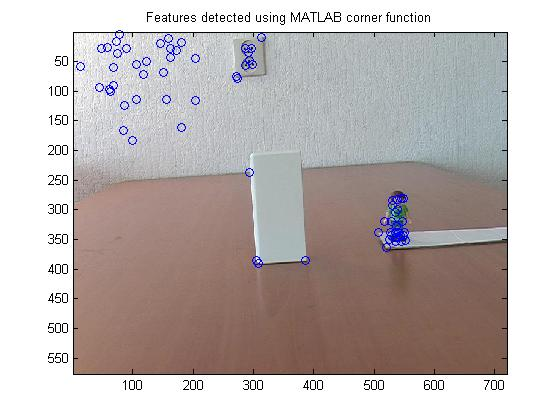
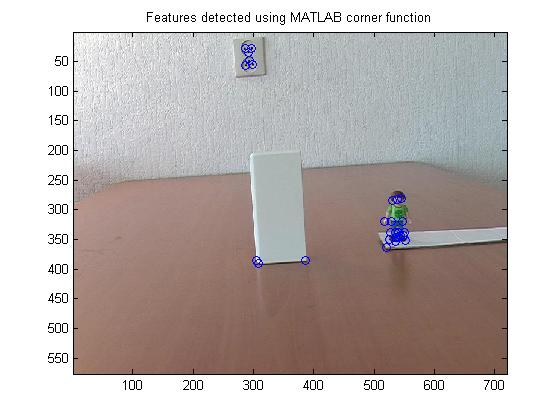
Tuning and report stuff

diff --git a/3-assignment/report.tex b/3-assignment/report.tex
@@ -30,13 +30,13 @@ the image, read in a gray scale format. The image gradients are shown in Figure
 \ref{fig:partialDerivatives_pingpong} and \ref{fig:partialDerivatives_person}.
 
 \begin{figure}[H] \centering
-	\includegraphics[width=1\textwidth]{imgs/derivatives_pingpong.jpg}
+	\includegraphics[width=.8\textwidth]{imgs/derivatives_pingpong.jpg}
 	\caption{Image gradients for first Ping Pong image}
 	\label{fig:partialDerivatives_pingpong}
 \end{figure}
 
 \begin{figure}[H] \centering
-	\includegraphics[width=1\textwidth]{imgs/derivatives_person.jpg}
+	\includegraphics[width=.8\textwidth]{imgs/derivatives_person.jpg}
 	\caption{Image gradients for first Toy Person image}
 	\label{fig:partialDerivatives_person}
 \end{figure}
@@ -49,14 +49,14 @@ assignment instructions. A visualization for the scaled surfaces are shown in
 Figure \ref{fig:surface_pingpong} and \ref{fig:surface_person}.
 
 \begin{figure}[H] \centering
-	\includegraphics[width=1\textwidth]{imgs/surface_pingpong.jpg}
+	\includegraphics[width=.8\textwidth]{imgs/surface_pingpong.jpg}
 	\caption{$H$ surface for first Ping Pong image. Local maxima are
 		observed along the ping pong table, and the hand.}
 	\label{fig:surface_pingpong}
 \end{figure}
 
 \begin{figure}[H] \centering
-	\includegraphics[width=1\textwidth]{imgs/surface_person.jpg}
+	\includegraphics[width=.8\textwidth]{imgs/surface_person.jpg}
 	\caption{$H$ surface for first Toy Person image. Local maxima are
 		observed on the power outlet and on the toy person.}
 	\label{fig:surface_person}
@@ -71,17 +71,17 @@ Finally, to choose the corner points we considered two conditions:
 		value than a given threshold.
 \end{enumerate}
 
-To create an accurate corner detector we need to tune the parameters. We noticed that smaller $\sigma$ had an effect of detecting more corner points on the background. A higher threshold results in more pressure to become a corner point and thus reduces the final number of points. Finally, a larger window size makes the corner points more sparse, and prevents the corner points to be clustered.
-
+To create an accurate corner detector we need to tune the parameters. We know that $\sigma$ controls the smoothness of surface $H$. When $\sigma >> 1$, the main corners are detected but there is misplacement on their location, while $\sigma << 1$ introduces noise by detecting corner points in the background. The window size determines the closeness at which points may be, therefore a larger window prevents them from clustering and reduces the final amount of points. Finally, the threshold regulates the pressure for candidate points to become corner points. Thus, a higher threshold reduces the final number of points.
+ 
 After tuning, the chosen values for the final detector are:
 \begin{itemize}
 	\item $kernel  length = 11$
-	\item $\sigma = 1$
-	\item $window  size = 3$
-	\item $threshold = 7$
+	\item $\sigma = 1.5$
+	\item $window  size = 11$
+	\item $threshold = 10$
 \end{itemize}
 
-To validate our detector we compared it with the Matlab corner function. Quantitatively we get the number of corner points detected, so that our detector ideally has an output in the same order of magnitude as the Matlab detector. Additionally, we compared it qualitatively by visually plotting the corner points and checking both implementations detected about the same points.
+To validate our detector we compared it with the Matlab corner function. In order to have a fair comparison, we make it so that the built in function returns the same number of points as our detector and qualitatively compare them by visually plotting the corner points.
  
 \begin{figure}[H] \centering
 	\begin{subfigure}{.5\textwidth} \centering
@@ -98,6 +98,8 @@ To validate our detector we compared it with the Matlab corner function. Quantit
 	\label{fig:corners_pingpong}
 \end{figure}
 
+In case of the Ping Pong image, $n_corners = 63$. On the one hand, our detector is able to detect points in the ball and along the sleeve. On the other hand, the Matlab function introduces noisy points in the background and fails to detect the racket. 
+
 \begin{figure}[H] \centering
 	\begin{subfigure}{.5\textwidth} \centering
 		\includegraphics[width=.9\textwidth]{imgs/ourCorners_person.jpg}
@@ -113,7 +115,14 @@ To validate our detector we compared it with the Matlab corner function. Quantit
 	\label{fig:corners_person}
 \end{figure}
 
+In case of the Toy person image, $n_corners = 27$. Our detector finds more corner points in the frame of the power outlet and detects three of the four edges of the white central box while the Matlab function focuses more on the toy.
+
 \section{Lucas-Kanade Algorithm for Optical Flow}
+Once again we compute the gradients of the images using our first order Gaussian kernel as stated in the previous section. 
+
+Then we divide the image into non overlapping regions, and loop through them. For each section we solve the system of equations to find velocities.
+
+
 
 
 \section{Tracking}

diff --git a/3-assignment/harris_test.m b/3-assignment/harris_test.m
@@ -1,19 +1,20 @@
 clear, close all
 
-% im_path = 'assets/pingpong/0000.jpeg';
-im_path = 'assets/person_toy/00000001.jpg';
+im_path = 'assets/pingpong/0000.jpeg';
+% im_path = 'assets/person_toy/00000001.jpg';
 kernel_length = 11;
-sigma = 1;
-window_size = 3;
-threshold = 7;
+sigma = 1.5;
+window_size = 11;
+threshold = 10;
 [H, r, c] = harris_corners(im_path, kernel_length, sigma, window_size, threshold);
-figure, mesh(H), title('H surface plot')
+figure, mesh(H'), title('H surface plot')
 
 fprintf('%d keypoints detected\n', size(r, 1));
 
+
 im_rgb = imread(im_path);
 im = im2double(rgb2gray(im_rgb));
-corners = corner(im);
+corners = corner(im, length(r));
 figure, imagesc(im_rgb), hold on
 plot(corners(:,1), corners(:,2), 'bo')
 title('Features detected using MATLAB corner function')

diff --git a/3-assignment/harris_corners.m b/3-assignment/harris_corners.m
@@ -48,12 +48,14 @@ H = (1000 / max(max(H))) * H;
 
 
 %% Find local maxima within the window
+% Non maximum suppression
 nrows = size(H, 1);
 ncols = size(H, 2);
 k = 1;
 r = zeros(ncols + nrows, 1);
 c = zeros(ncols + nrows, 1);
 half_winsize = (window_size - 1) / 2;
+
 for y=1+half_winsize:nrows-half_winsize;
     for x=1+half_winsize:ncols-half_winsize;
         window = H((y-half_winsize):(y+half_winsize), (x-half_winsize):(x+half_winsize));

diff --git a/3-assignment/tracking.m b/3-assignment/tracking.m
@@ -16,9 +16,9 @@ im_first = imread(sprintf(im_format, nfirst));
 
 % Detect corner features using Harris corner detector
 kernel_length = 11;
-sigma = 1;
-window_size = 3;
-threshold = 7;
+sigma = 1.5;
+window_size = 11;
+threshold = 10;
 [H, r, c] = harris_corners(sprintf(im_format, nfirst), kernel_length, sigma, window_size, threshold);
 
 
